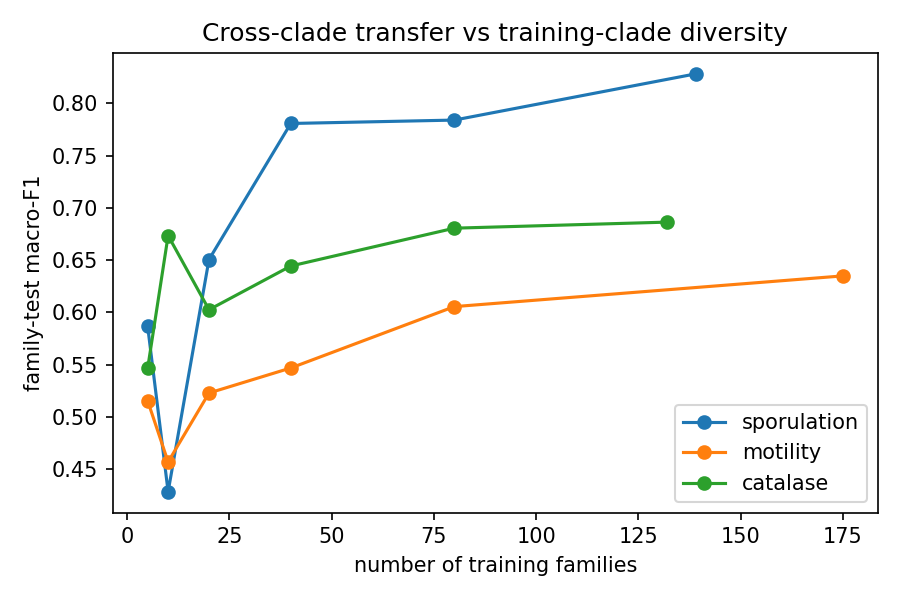
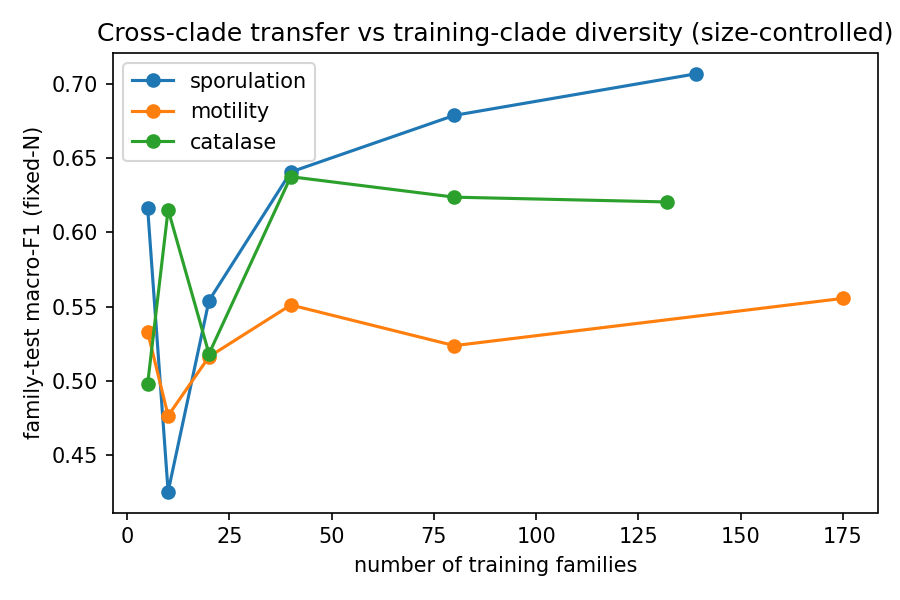
fix(diagnostic): size-controlled diversity ablation + honest chance baseline + richer verdict

diff --git a/cross_clade_diagnostic.py b/cross_clade_diagnostic.py
@@ -67,11 +67,11 @@ def _macro_f1(y_true, prob) -> float:
     return float(f1_score(y_true, (np.asarray(prob) > 0.5).astype(int), average="macro", zero_division=0))
 
 
-def _chance_f1(y_true) -> float:
-    """Macro-F1 of always predicting the training-majority class."""
-    majority = 1 if np.mean(y_true) >= 0.5 else 0
-    pred = np.full(len(y_true), majority)
-    return float(f1_score(y_true, pred, average="macro", zero_division=0))
+def _chance_f1(y_test, y_train) -> float:
+    """Macro-F1 of always predicting the TRAINING-majority class (no test-distribution peeking)."""
+    majority = 1 if np.mean(y_train) >= 0.5 else 0
+    pred = np.full(len(y_test), majority)
+    return float(f1_score(y_test, pred, average="macro", zero_division=0))
 
 
 def knn_transfer(X_train, y_train, X_test, y_test, k: int = K_NN) -> dict:
@@ -93,18 +93,20 @@ def knn_transfer(X_train, y_train, X_test, y_test, k: int = K_NN) -> dict:
         "knn_auroc": float(roc_auc_score(y_test, knn_prob)),
         "probe_f1": _macro_f1(y_test, probe_prob),
         "probe_auroc": float(roc_auc_score(y_test, probe_prob)),
-        "chance_f1": _chance_f1(y_test),
+        "chance_f1": _chance_f1(y_test, y_train),
         "n_test": int(len(y_test)),
         "pos_rate": float(y_test.mean()),
     }
 
 
-def family_diversity_curve(X_train, y_train, fam_train, X_test, y_test, ks, seeds) -> list:
+def family_diversity_curve(X_train, y_train, fam_train, X_test, y_test, ks, seeds, fixed_n=None) -> list:
     """Test macro-F1 as a function of the number of distinct training families.
 
     For each (k, seed): sample k families, restrict training to genomes in them,
     train a probe, evaluate on the fixed test set. Single-class subsets are skipped
-    (with a printed note).
+    (with a printed note). If fixed_n is given, the per-subset training set is
+    downsampled to fixed_n genomes so training size is held constant and only the
+    number of families varies (isolates clade diversity from data volume).
     """
     fam_train = np.asarray(fam_train)
     X_train = np.asarray(X_train, dtype=float)
@@ -113,23 +115,26 @@ def family_diversity_curve(X_train, y_train, fam_train, X_test, y_test, ks, seed
     for k in ks:
         for seed in seeds:
             fams = sample_families(list(fam_train), k, seed)
-            sel = np.isin(fam_train, list(fams))
+            sel = np.where(np.isin(fam_train, list(fams)))[0]
+            if fixed_n is not None and len(sel) > fixed_n:
+                rng = np.random.default_rng(1000 + seed)  # distinct stream from sample_families
+                sel = rng.choice(sel, fixed_n, replace=False)
             ytr = y_train[sel]
             if len(np.unique(ytr)) < 2:
                 print(f"  skip k={k} seed={seed}: single-class subset")
                 continue
             prob = _probe(X_train[sel], ytr, X_test)
-            rows.append({
-                "k_families": int(k),
-                "seed": int(seed),
-                "n_train": int(sel.sum()),
-                "test_f1": _macro_f1(y_test, prob),
-            })
+            rows.append({"k_families": int(k), "seed": int(seed),
+                         "n_train": int(len(sel)), "test_f1": _macro_f1(y_test, prob)})
     return rows
 
 
 def is_rising(diversity_rows, min_gain: float = 0.02) -> bool:
-    """True if mean test_f1 at the largest k exceeds the smallest k by > min_gain."""
+    """True if mean test_f1 at the largest k exceeds the smallest k by > min_gain.
+
+    Endpoint comparison only: distinguishes 'more helps globally' from 'no benefit',
+    NOT 'still climbing' vs 'plateaued'.
+    """
     if not diversity_rows:
         return False
     by_k: dict = {}
@@ -141,11 +146,13 @@ def is_rising(diversity_rows, min_gain: float = 0.02) -> bool:
     return (hi - lo) > min_gain
 
 
-def verdict(diversity_rising: bool, knn_good: bool) -> str:
-    if diversity_rising and knn_good:
-        return "coverage-limited"
-    if not diversity_rising and not knn_good:
+def verdict(fixed_n_rising: bool, knn_good: bool, natural_rising: bool) -> str:
+    if not knn_good:
         return "representation-wall"
+    if fixed_n_rising:
+        return "coverage-limited (clade diversity)"
+    if natural_rising:
+        return "data-limited (volume, not diversity-specific)"
     return "mixed"
 
 
@@ -184,7 +191,12 @@ def run(features_path, splits_path, traits_path, traits=TRAITS):
             continue
         n_fam = len(set(fam_tr))
         ks = [k for k in DIVERSITY_KS if k < n_fam] + [n_fam]
-        diversity[trait] = family_diversity_curve(Xtr, ytr, fam_tr, Xte, yte, ks, DIVERSITY_SEEDS)
+        natural = family_diversity_curve(Xtr, ytr, fam_tr, Xte, yte, ks, DIVERSITY_SEEDS)
+        min_k = min(ks)
+        smallest_pool = min(int(np.isin(fam_tr, sample_families(list(fam_tr), min_k, s)).sum())
+                            for s in DIVERSITY_SEEDS)
+        fixed = family_diversity_curve(Xtr, ytr, fam_tr, Xte, yte, ks, DIVERSITY_SEEDS, fixed_n=smallest_pool)
+        diversity[trait] = {"natural": natural, "fixed_n": fixed, "fixed_n_value": int(smallest_pool)}
         transfer[trait] = knn_transfer(Xtr, ytr, Xte, yte)
     return diversity, transfer
 
@@ -201,18 +213,35 @@ def to_markdown(diversity, transfer) -> str:
         lines.append(f"| `{trait}` | {t['n_test']} | {t['pos_rate']:.3f} | {t['knn_f1']:.3f} | "
                      f"{t['knn_auroc']:.3f} | {t['probe_f1']:.3f} | {t['probe_auroc']:.3f} | {t['chance_f1']:.3f} |")
     lines += ["", "## A. Family-diversity curve (mean test macro-F1 over seeds)", "",
-              "| Trait | k=min | k=max | rising? | verdict |", "|---|---:|---:|:--:|:--:|"]
-    for trait, rows in diversity.items():
-        if not rows:
+              "The *natural* curve confounds #families with #training-genomes (fewer families "
+              "= fewer genomes); the *fixed-N* curve holds training size constant so only family "
+              "count varies, isolating clade diversity from data volume.", "",
+              "| Trait | nat k=min | nat k=max | nat rising? | fixed-N | fixedN k=min | "
+              "fixedN k=max | fixedN rising? | verdict |",
+              "|---|---:|---:|:--:|---:|---:|---:|:--:|:--:|"]
+    for trait, d in diversity.items():
+        natural = d["natural"]
+        fixed_n_rows = d["fixed_n"]
+        if not natural:
             continue
-        by_k: dict = {}
-        for r in rows:
-            by_k.setdefault(r["k_families"], []).append(r["test_f1"])
-        ks = sorted(by_k)
-        rising = is_rising(rows)
+        nat_by_k: dict = {}
+        for r in natural:
+            nat_by_k.setdefault(r["k_families"], []).append(r["test_f1"])
+        nat_ks = sorted(nat_by_k)
+        fix_by_k: dict = {}
+        for r in fixed_n_rows:
+            fix_by_k.setdefault(r["k_families"], []).append(r["test_f1"])
+        fix_ks = sorted(fix_by_k)
+        natural_rising = is_rising(natural)
+        fixed_rising = is_rising(fixed_n_rows)
         knn_good = transfer[trait]["knn_f1"] > transfer[trait]["chance_f1"] + 0.05
-        lines.append(f"| `{trait}` | {np.mean(by_k[ks[0]]):.3f} | {np.mean(by_k[ks[-1]]):.3f} | "
-                     f"{'yes' if rising else 'no'} | {verdict(rising, knn_good)} |")
+        fix_lo = f"{np.mean(fix_by_k[fix_ks[0]]):.3f}" if fix_ks else "n/a"
+        fix_hi = f"{np.mean(fix_by_k[fix_ks[-1]]):.3f}" if fix_ks else "n/a"
+        lines.append(f"| `{trait}` | {np.mean(nat_by_k[nat_ks[0]]):.3f} | "
+                     f"{np.mean(nat_by_k[nat_ks[-1]]):.3f} | {'yes' if natural_rising else 'no'} | "
+                     f"{d['fixed_n_value']} | {fix_lo} | {fix_hi} | "
+                     f"{'yes' if fixed_rising else 'no'} | "
+                     f"{verdict(fixed_rising, knn_good, natural_rising)} |")
     return "\n".join(lines) + "\n"
 
 
@@ -222,7 +251,8 @@ def _save_figure(diversity, fig_path: Path) -> None:
     import matplotlib.pyplot as plt
 
     fig, ax = plt.subplots(figsize=(6, 4))
-    for trait, rows in diversity.items():
+    for trait, d in diversity.items():
+        rows = d["fixed_n"]
         if not rows:
             continue
         by_k: dict = {}
@@ -232,8 +262,8 @@ def _save_figure(diversity, fig_path: Path) -> None:
         means = [float(np.mean(by_k[k])) for k in ks]
         ax.plot(ks, means, marker="o", label=trait)
     ax.set_xlabel("number of training families")
-    ax.set_ylabel("family-test macro-F1")
-    ax.set_title("Cross-clade transfer vs training-clade diversity")
+    ax.set_ylabel("family-test macro-F1 (fixed-N)")
+    ax.set_title("Cross-clade transfer vs training-clade diversity (size-controlled)")
     ax.legend()
     fig.tight_layout()
     fig_path.parent.mkdir(parents=True, exist_ok=True)
@@ -254,7 +284,10 @@ def main() -> None:
     out_dir.mkdir(parents=True, exist_ok=True)
     md = to_markdown(diversity, transfer)
     (out_dir / "15_cross_clade_diagnostic.md").write_text(md)
-    flat = [{"trait": t, **r} for t, rows in diversity.items() for r in rows]
+    flat = [{"trait": t, "curve": curve, **r}
+            for t, d in diversity.items()
+            for curve in ("natural", "fixed_n")
+            for r in d[curve]]
     pd.DataFrame(flat).to_csv(out_dir / "15_cross_clade_diagnostic.csv", index=False)
     _save_figure(diversity, Path(args.fig_dir) / "cross_clade_diversity_curve.png")
     print(md)

diff --git a/tests/test_cross_clade_diagnostic.py b/tests/test_cross_clade_diagnostic.py
@@ -62,11 +62,34 @@ def test_diversity_curve_returns_row_per_k_seed():
         assert r["n_train"] > 0
 
 
+def test_diversity_curve_fixed_n_caps_train_size():
+    rng = np.random.default_rng(1)
+    n_fam = 12
+    fams = np.repeat([f"fam{i}" for i in range(n_fam)], 10)
+    X_train = rng.normal(size=(len(fams), 4))
+    y_train = (X_train[:, 0] > 0).astype(float)
+    X_test = rng.normal(size=(40, 4))
+    y_test = (X_test[:, 0] > 0).astype(float)
+    rows = mod.family_diversity_curve(X_train, y_train, list(fams), X_test, y_test,
+                                      ks=[3, 6], seeds=[0, 1], fixed_n=15)
+    assert len(rows) > 0
+    for r in rows:
+        assert r["n_train"] <= 15
+
+
+def test_chance_f1_uses_train_majority():
+    from sklearn.metrics import f1_score
+    y_test = np.array([1.0, 1, 0, 0])
+    y_train = np.array([0.0, 0, 0, 1])  # train majority is 0 -> predict all 0
+    expected = float(f1_score(y_test, np.zeros(len(y_test)), average="macro", zero_division=0))
+    assert mod._chance_f1(y_test, y_train) == expected
+
+
 def test_verdict_labels_match_signals():
-    # diversity rising + knn good -> coverage; flat + poor -> wall
-    assert mod.verdict(diversity_rising=True, knn_good=True) == "coverage-limited"
-    assert mod.verdict(diversity_rising=False, knn_good=False) == "representation-wall"
-    assert mod.verdict(diversity_rising=True, knn_good=False) == "mixed"
+    assert mod.verdict(True, True, True) == "coverage-limited (clade diversity)"
+    assert mod.verdict(False, False, False) == "representation-wall"
+    assert mod.verdict(False, True, True) == "data-limited (volume, not diversity-specific)"
+    assert mod.verdict(False, True, False) == "mixed"
 
 
 def test_is_rising_detects_monotone_gain():

diff --git a/paper/tables/15_cross_clade_diagnostic.md b/paper/tables/15_cross_clade_diagnostic.md
@@ -12,8 +12,10 @@ Why family-level transfer collapses: training-clade *coverage* vs a frozen-repre
 
 ## A. Family-diversity curve (mean test macro-F1 over seeds)
 
-| Trait | k=min | k=max | rising? | verdict |
-|---|---:|---:|:--:|:--:|
-| `sporulation` | 0.586 | 0.828 | yes | coverage-limited |
-| `motility` | 0.515 | 0.635 | yes | coverage-limited |
-| `catalase` | 0.546 | 0.686 | yes | coverage-limited |
+The *natural* curve confounds #families with #training-genomes (fewer families = fewer genomes); the *fixed-N* curve holds training size constant so only family count varies, isolating clade diversity from data volume.
+
+| Trait | nat k=min | nat k=max | nat rising? | fixed-N | fixedN k=min | fixedN k=max | fixedN rising? | verdict |
+|---|---:|---:|:--:|---:|---:|---:|:--:|:--:|
+| `sporulation` | 0.586 | 0.828 | yes | 15 | 0.616 | 0.707 | yes | coverage-limited (clade diversity) |
+| `motility` | 0.515 | 0.635 | yes | 33 | 0.533 | 0.556 | yes | coverage-limited (clade diversity) |
+| `catalase` | 0.546 | 0.686 | yes | 20 | 0.498 | 0.621 | yes | coverage-limited (clade diversity) |